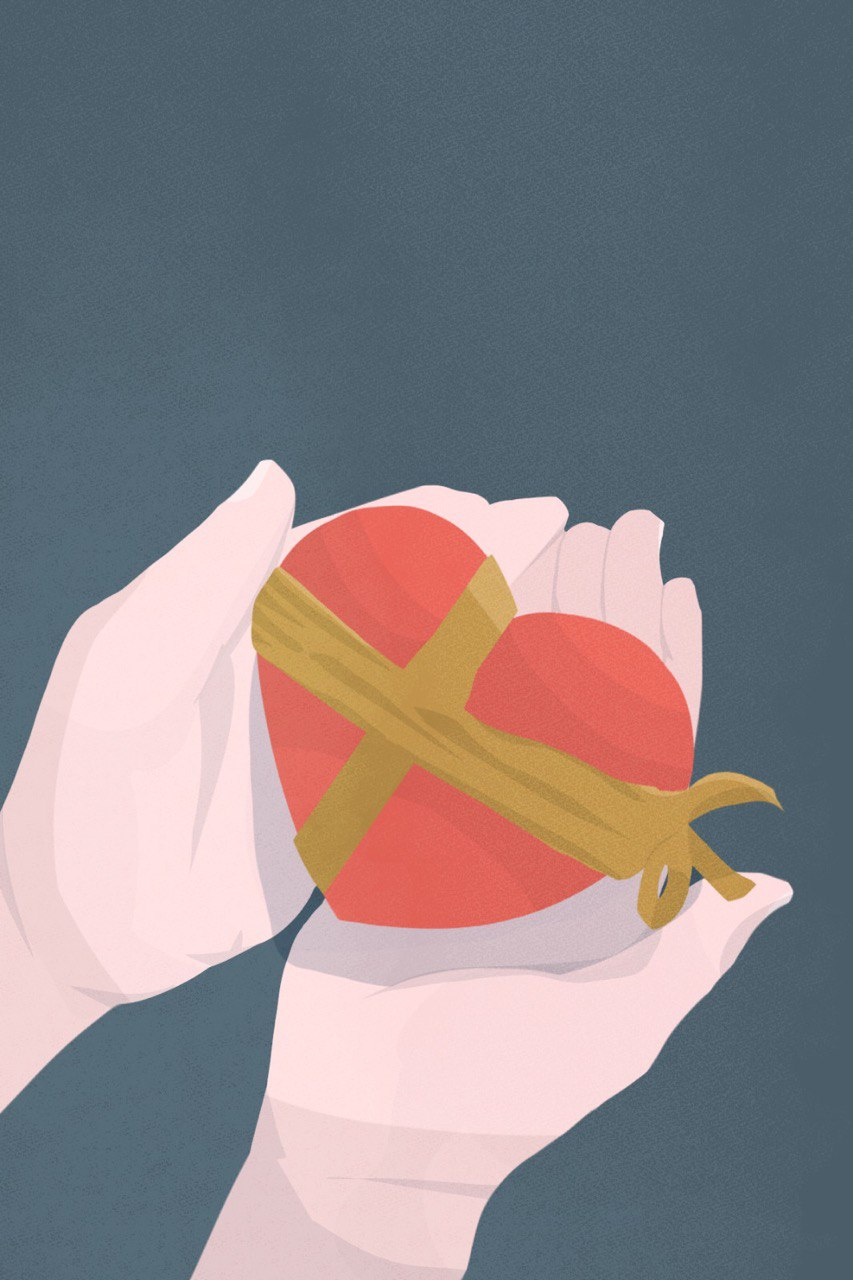
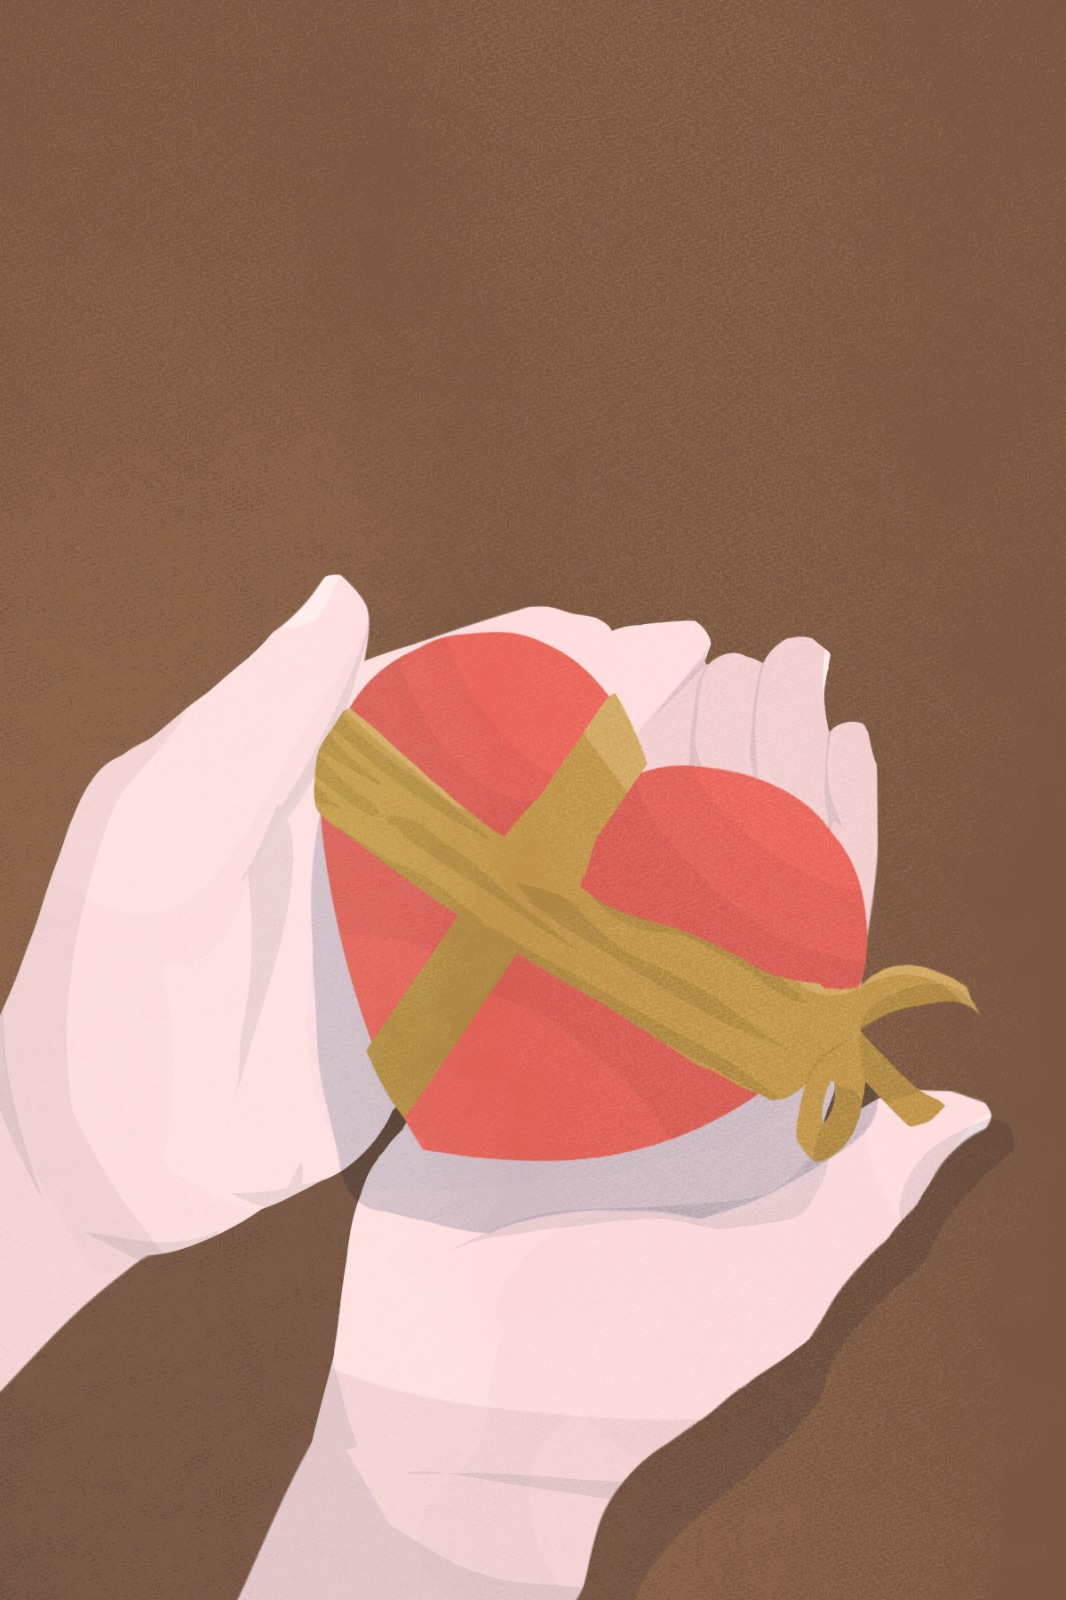
updated curain images

diff --git a/src/components/homePage/HomeReveal.js b/src/components/homePage/HomeReveal.js
@@ -77,7 +77,7 @@ const HomeReveal = () => {
           <CurtainImage>
             <StaticImage
               className="image"
-              src="../../assets/images/curtain-community.png"
+              src="../../assets/images/curtain-community.jpeg"
               alt="community curtain"
             />
           </CurtainImage>

diff --git a/src/pages/index.js b/src/pages/index.js
@@ -27,7 +27,10 @@ const IndexPage = () => {
   return (
     <>
       {loading ? (
-        <div></div>
+        <div>
+          Your device has an issue! Please checkout our about, faq, and guide
+          instead!
+        </div>
       ) : (
         <Layout isIndex={isIndex}>
           <LandingPage />
